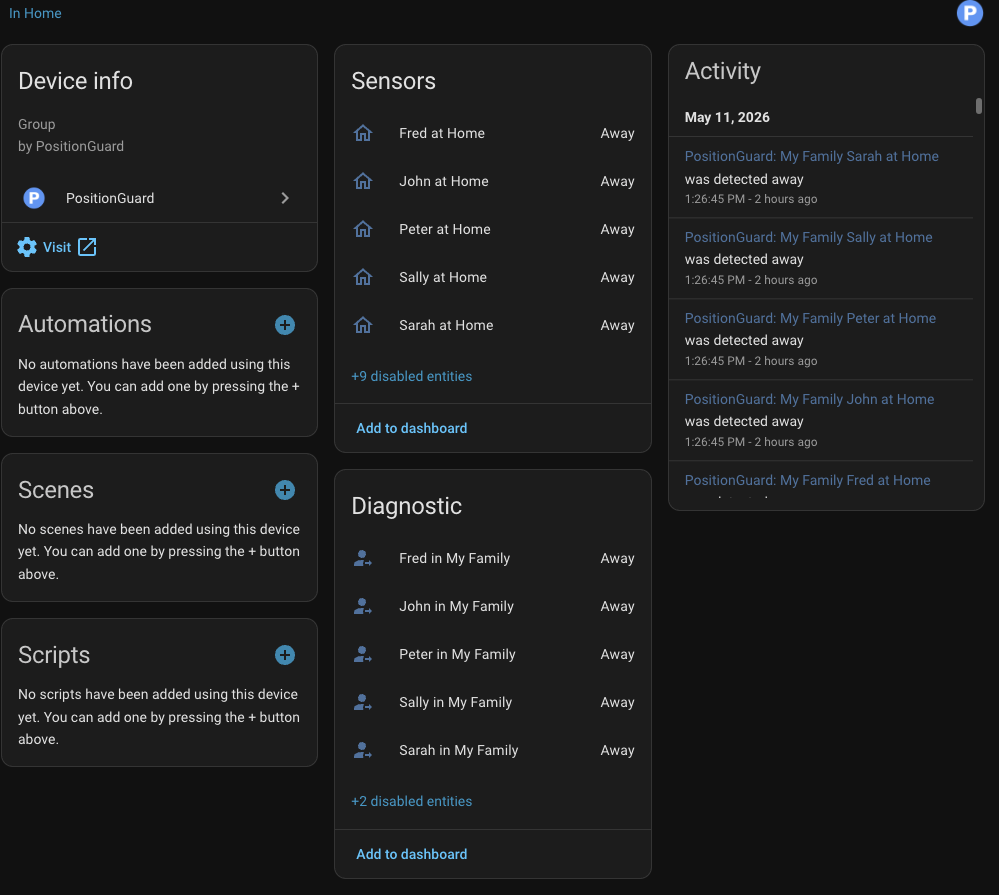
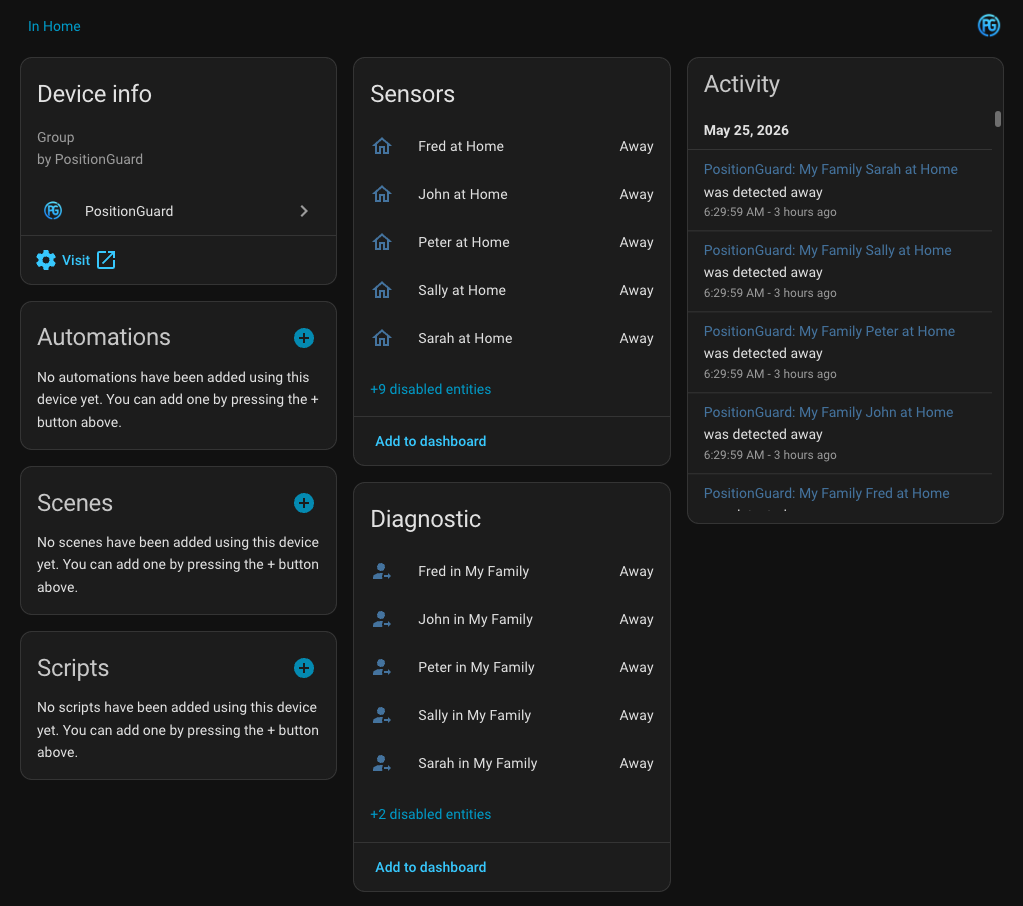
Updated README with device page using updated brand image

diff --git a/README.md b/README.md
@@ -60,7 +60,11 @@ visible under Settings → Devices & Services → PositionGuard:
 - **Home Assistant**: 2026.3 or later (required for proper icon
   rendering)
 - **PositionGuard app**: latest version on iOS App Store
-  ([download](https://apps.apple.com/app/id6758687496))
+  ([download](https://apps.apple.com/app/id6758687496)). Android
+  support is in beta — if you want to participate, mention it in
+  the
+  [Discussions](https://github.com/positionguard/positionguard-homeassistant/discussions)
+  tab.
 - **HACS**: recommended for installation, though manual install is
   supported
 
@@ -392,16 +396,19 @@ This integration is **read-only**. From Home Assistant, you cannot:
 These actions remain in the PositionGuard app where group members can
 manage their own privacy directly.
 
-The integration polls the PositionGuard API at a regular interval
-(typically every 30 seconds). State changes in the app may take up to
-that interval to reflect in Home Assistant.
+The integration polls the PositionGuard API every 30 seconds. Position
+changes typically reflect in Home Assistant within 30–60 seconds of
+the actual change.
 
 ---
 
-## Issues and contributing
+## Questions, feedback, bug reports
 
-Bug reports and feature requests welcome via
-[GitHub Issues](https://github.com/positionguard/positionguard-homeassistant/issues).
+Use the
+[Discussions](https://github.com/positionguard/positionguard-homeassistant/discussions)
+tab for questions or feedback, and
+[Issues](https://github.com/positionguard/positionguard-homeassistant/issues)
+for bug reports.
 
-For questions about PositionGuard the app or developer portal, see
-[positionguardai.com](https://positionguardai.com).
+For information about PositionGuard the app or the developer portal,
+visit [positionguardai.com](https://positionguardai.com).